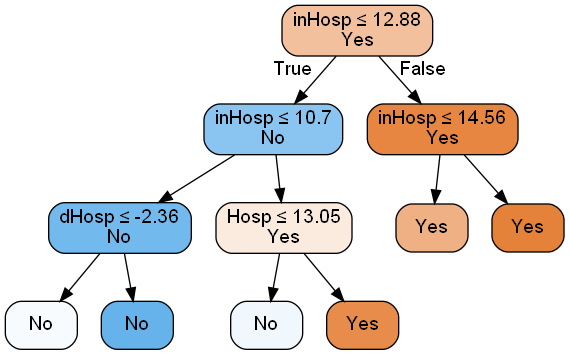
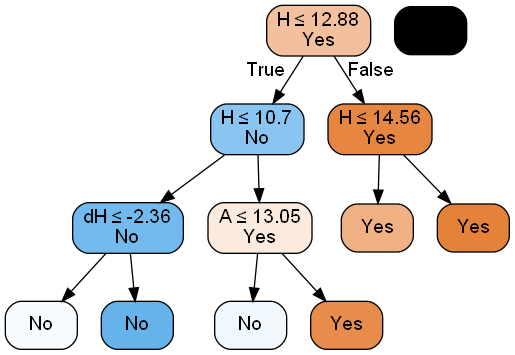
revising HCMS

diff --git a/covid_prediction/model_specs.py b/covid_prediction/model_specs.py
@@ -1,12 +1,12 @@
 
 SHORT_FEATURE_NAMES = {
-    'Obs: Hospital occupancy rate': 'inHosp',
-    'Obs: New hospitalization rate-slope-4wk': 'dHosp',
-    'Obs: New hospitalization rate-ave-2wk': 'Hosp',
+    'Obs: Hospital occupancy rate': 'H',
+    'Obs: New hospitalization rate-slope-4wk': 'dH',
+    'Obs: New hospitalization rate-ave-2wk': 'A',
     'Obs: Cumulative hospitalization rate': 'sumHosp',
     'Obs: Cumulative vaccination rate': 'Vacc',
-    'Obs: % of incidence due to Novel-ave-2wk': 'Novel',
-    'Obs: % of incidence due to Novel-slope-4wk': 'dNovel'
+    'Obs: % of incidence due to Novel-ave-2wk': 'N',
+    'Obs: % of incidence due to Novel-slope-4wk': 'dN'
 }
 
 

diff --git a/BuildADecisionTree.py b/BuildADecisionTree.py
@@ -3,7 +3,7 @@ from covid_prediction.model_specs import SHORT_FEATURE_NAMES
 from covid_prediction.optimize_parameters import optimize_and_eval_dec_tree, SummaryOfTreePerformance
 from definitions import ROOT_DIR, DIGITS
 
-ALPHA = 0.0015
+ALPHA = 0.002
 MODEL = models.B
 THRESHOLD = 20
 WEEKS_TO_PREDICT = 4

diff --git a/EvalDecTrees.py b/EvalDecTrees.py
@@ -46,5 +46,5 @@ def evaluate(weeks_to_predict):
 if __name__ == '__main__':
 
     evaluate(weeks_to_predict=4)
-    # evaluate(weeks_to_predict=8)
+    evaluate(weeks_to_predict=8)
 
